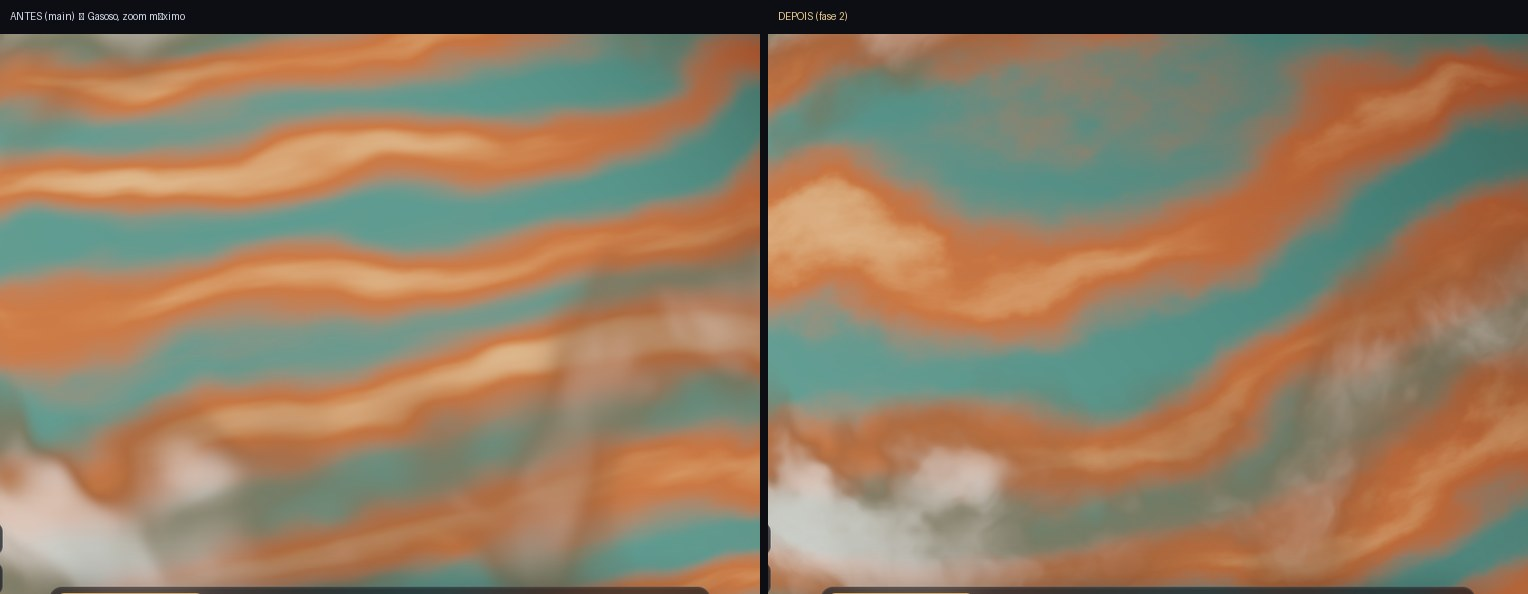
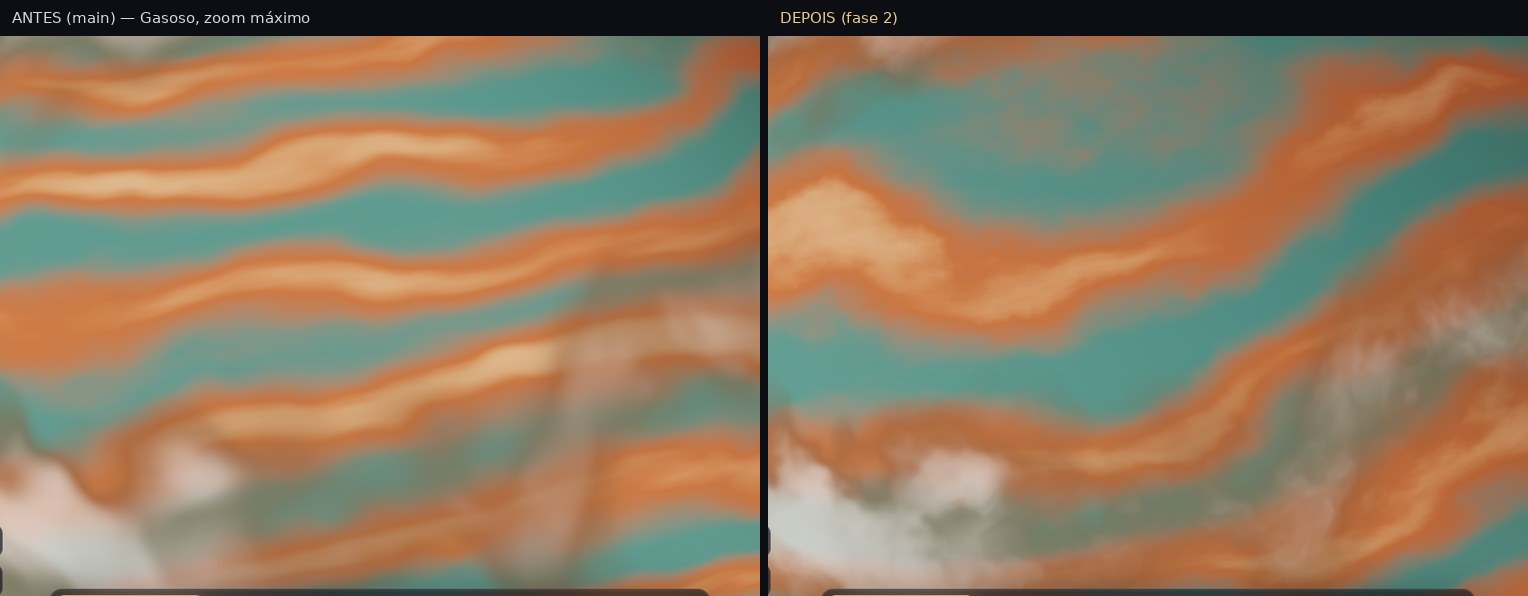
Fase 2: documentação, relatório com métricas e capturas comparativas
README atualizado (zoom ao cursor, entrada/saída por proximidade, e2e:nav) e relatório em docs/fase2.
Verificação final: lint, typecheck, build, 63 testes unitários, e2e de navegação 13/13 e e2e funcional 18/18.

Claude-Session: https://claude.ai/code/session_01Qkqf6AQmxNTahZbz6ukX4v

Changed region(s): [[0.0, 0.0, 1.0, 0.0606]]

diff --git a/docs/fase2/RELATORIO.md b/docs/fase2/RELATORIO.md
@@ -1,0 +1,78 @@
+# Fase 2 — navegação espacial avançada
+
+Escopo: exploração 3D e refinamento visual pontual. CRUD, persistência, backup, busca, painéis, qualidade
+automática, acessibilidade e publicação **não** foram alterados.
+
+## 1. Zoom ao cursor
+`CameraRig.tsx` passou a tratar a roda assim:
+
+1. O alvo sob o cursor vem dos **mesmos meshes de hit** que já faziam hover/clique (`pick.ts` só os registra;
+   não há segundo sistema de picking). Meshes escondidos não respondem.
+2. **Objeto** (planeta, lua, satélite): o alvo da câmera é misturado com a posição *viva* do objeto com peso `w`;
+   cada passo faz `(1 − w) ← (1 − w)·f`. Converge geometricamente e desfaz de forma simétrica ao afastar. Como segue
+   a posição viva, funciona com o planeta em órbita.
+3. **Vazio**: o ponto do plano sob o cursor é calculado com a pose *de destino* da câmera e mantido fixo
+   (`pan += (P − T)(1 − f)`); eventos rápidos ficam consistentes e não há saltos.
+4. **Estabilidade do ponto de interesse**: o alvo anterior continua valendo por 0,9 s enquanto o raio do cursor
+   passar a menos de 3 raios dele.
+5. Girar, deslocar, teclado e centralizar "assam" o foco em um deslocamento, então o alvo não salta.
+
+Laboratório, formação e visão de tarefa não usam alvo (zoom ao centro). A roda sobre rótulos é repassada ao canvas;
+sobre painéis/formulários continua rolando o próprio painel.
+
+## 2. Entrada e saída por proximidade (`proximity.ts`, função pura testada)
+Entrar exige **todas** estas condições: alvo planeta válido (o apontado), zoom-in acumulado ≥ 0,4 (≈ 4 passos da roda)
+sobre o mesmo alvo, gesto ativo (≤ 0,6 s), distância ≤ `min(7,5·R, 0,9·enquadramento do planeta)` e 0,16 s de permanência.
+Sair exige zoom-out sustentado e distância ≥ `max(13·R, 1,55·enquadramento)`. As luas são reveladas de forma progressiva a
+partir de `1,9×` a distância de entrada. Nada disso roda com a câmera ocupada (voo, laboratório, formação, reorganizar,
+arrasto). A passagem de nível preserva a pose da câmera (sem voo e sem reenquadrar).
+
+## 3. Continuidade das transições
+Medido com passo de simulação fixo (30 Hz), mesmo roteiro, antes (main) → depois. "Salto de velocidade" = maior variação de
+velocidade entre dois quadros consecutivos, relativa ao pico.
+
+| Transição | salto de velocidade | giro máx./quadro |
+|---|---|---|
+| Universo → Planeta | 0,35 → 0,12 | 0,70° → 0,16° |
+| Planeta → Grupo | 0,38 → 0,12 | 0,46° → 0,11° |
+| Grupo → Tarefa | 0,39 → 0,11 | 0,86° → 0,27° |
+| Tarefa → Grupo | 0,39 → 0,17 | 0,86° → 0,34° |
+| Grupo → Planeta | 0,36 → 0,15 | 0,47° → 0,11° |
+| Planeta → Universo | 0,34 → 0,19 | 0,67° → 0,15° |
+
+Defeitos reais corrigidos:
+- **Tranco no meio do voo**: a duração do voo era medida com relógio de parede, enquanto a câmera avança por quadros.
+  Com taxa de quadros baixa o voo "acabava" cedo e a velocidade quintuplicava de uma vez. Agora é tempo de simulação e a
+  mudança de suavização é gradual.
+- **Alvo perdido**: se o nó 3D ainda não tinha se registrado, a câmera mirava a origem (a estrela). Agora usa o pai ou o
+  último valor conhecido.
+- **Sumiço abrupto**: ao sair de um planeta as luas eram desmontadas de uma vez; agora desvanecem.
+- **Atravessar corpos**: a câmera é empurrada suavemente para fora de estrela, planetas, luas e satélites.
+
+## 4. Refinamento gráfico (3 problemas observados nas capturas)
+Capturas: `docs/fase2/*.jpg` (esquerda = main, direita = fase 2), qualidade cinematográfica, mesma cena e mesmo passo de tempo.
+
+| # | Problema observado | Correção | Evidência |
+|---|---|---|---|
+| 1 | Perto do planeta a superfície ficava borrada | Até 3 oitavas extras de ruído (e sub-painéis no tecnológico, microtextura/ondulação no oceano) **só** a menos de ~7 raios; não são avaliadas à distância | oceano: energia de alta frequência +32%; rochoso ×2,3; tecnológico visivelmente mais definido; gasoso: ganho visual modesto, **não confirmado pela métrica** (−15%) |
+| 2 | Lado noturno quase preto e ilegível | Ambiente maior e tingido pela atmosfera, halo noturno discreto e piso mínimo de luminosidade que preserva a matiz | rochoso (visto do lado noturno): luminância p10 0,0012 → 0,0034; relevo e nuvens passam a aparecer |
+| 3 | Esferas iluminadas de frente pareciam discos chapados | Difusão tipo Lambert com pouco *wrap* em vez de `smoothstep` saturado | curvatura legível; razão dia/noite do oceano 104 → 27 (a 1ª tentativa dava 17 e achatava o terminador, então foi ajustada) |
+
+Preservado: relevo por diferenças finitas, luzes de cidade só à noite, atmosfera/nuvens e perfis de qualidade
+(nível *mínimo* não usa as oitavas extras). Sem bloom, partículas, pós-processamento ou dependências novas.
+Tamanho do pacote praticamente inalterado (núcleo 3D ≈ 246 kB gzip).
+
+## 5. Verificação
+- `npm run lint`, `npm run typecheck`, `npm run build`: sem erros.
+- `npm test`: 63 testes (inclui geometria de zoom e a máquina de intenção).
+- `npm run e2e:nav`: 13/13 — A aproximar sem clique · B região vazia · C entrar por proximidade · D histerese e saída ·
+  E alternar planetas · F girar/deslocar/centralizar após o zoom · G rolagem de painéis e formulários · H laboratório sem
+  interferência · I movimento reduzido · K clique independente · L a câmera não atravessa estrela/planeta.
+- `npm run e2e`: 18/18 — IndexedDB, criação/edição/exclusão de planetas, grupos e tarefas, backup, busca, reorganizar.
+
+## Limitações
+- Tudo foi verificado em Chromium com WebGL **por software**: a fluidez numa GPU real não foi medida. Para o resultado ser
+  determinístico, os testes usam um passo de simulação fixo (`runtime.fixedDt`, só em dev).
+- Sem suporte a toque (pinça). Pinça no trackpad chega como roda com `ctrl` e segue o mesmo caminho do zoom.
+- As métricas de imagem comparam cenas equivalentes, mas a câmera tem uma deriva ociosa (não determinística), então
+  regiões do planeta podem diferir ligeiramente entre as capturas.

diff --git a/README.md b/README.md
@@ -38,7 +38,7 @@ Requer Node 20+ e um navegador moderno com WebGL (há um modo de contingência s
   data de conclusão (automática e editável), conexões, e mover entre grupos **e planetas**.
 - **Indicadores no próprio universo**: anel de progresso do planeta/lua, sinal de urgência, estação quando um
   grupo tem muitas tarefas em andamento, radar de localização e *breadcrumb*.
-- **Navegação**: arrastar para girar, botão direito/Shift para mover, roda para zoom, clique para entrar,
+- **Navegação**: arrastar para girar, botão direito/Shift para mover, **roda para zoom direcionado ao cursor** (aproxime um planeta e a câmera converge para ele; continue e a categoria abre sozinha), clique para entrar,
   busca global (`Ctrl K`), dock de planetas (`1`–`9`, `[` `]`), centralizar câmera (`C`), radar clicável.
 - **Reorganizar** (`R`): arraste planetas entre as órbitas; o universo encaixa na vaga livre mais próxima.
 - **Personalização**: renomear o universo, efeitos gráficos (automático/mínimo/equilibrado/cinematográfico),
@@ -47,6 +47,13 @@ Requer Node 20+ e um navegador moderno com WebGL (há um modo de contingência s
   reparo automático de registros corrompidos, aviso quando o armazenamento local não está disponível.
 
 Atalhos: `?` abre a lista completa dentro do app.
+
+## Navegação espacial (fase 2)
+
+- **Zoom ao cursor**: a roda aproxima/afasta em direção ao que está sob o cursor, sem clique prévio. Sobre um planeta (ou lua/satélite) a câmera converge para ele, mesmo em órbita; sobre o vazio o ponto sob o cursor fica fixo. O alvo anterior tem prioridade enquanto o cursor só "escorrega" dele.
+- **Entrar/sair por proximidade**: aproximar de um planeta com a roda revela suas luas progressivamente e abre a categoria sem clique. Só abre com **alvo válido** (o planeta apontado), **zoom sustentado** nele, **distância relativa ao raio real** e um breve tempo de permanência. Sair exige afastar de verdade (limiar bem maior: histerese). Movimentos de câmera, arrastos, teclado e o modo *reorganizar* nunca abrem categorias. O clique continua independente.
+- **Continuidade**: a mudança de nível mantém a pose da câmera; o "voo" cinematográfico é medido em tempo de simulação; o alvo nunca cai na estrela; a câmera contorna corpos em vez de atravessá-los.
+- Detalhes, números e capturas comparativas: [`docs/fase2/RELATORIO.md`](docs/fase2/RELATORIO.md).
 
 ## Persistência
 
@@ -95,8 +102,9 @@ viagens de câmera; também configurável).
 
 ## Testes
 
-- `npm test` — 48 testes (layout sem sobreposição, urgência, transições do modelo, persistência em IndexedDB
+- `npm test` — 63 testes (layout sem sobreposição, urgência, transições do modelo, persistência em IndexedDB
   simulado, backup e reparo, busca, comandos de produto com desfazer/reconciliação).
+- `npm run e2e:nav` — 13 verificações da navegação espacial (zoom ao cursor, entrada/saída por proximidade, continuidade, painéis, laboratório, movimento reduzido, colisão). Exige servidor de **desenvolvimento** (usa `window.__orbita` e um passo de simulação fixo, só em dev, para ser determinístico mesmo com WebGL por software).
 - `npm run e2e` — percorre os critérios de sucesso no navegador real e confere o conteúdo gravado no IndexedDB
   (criar planeta → grupos → tarefas → editar/concluir → mover → excluir/desfazer → busca → reorganizar →
   recarregar → exportar/apagar/importar). Usa WebGL por software, então roda sem GPU.
